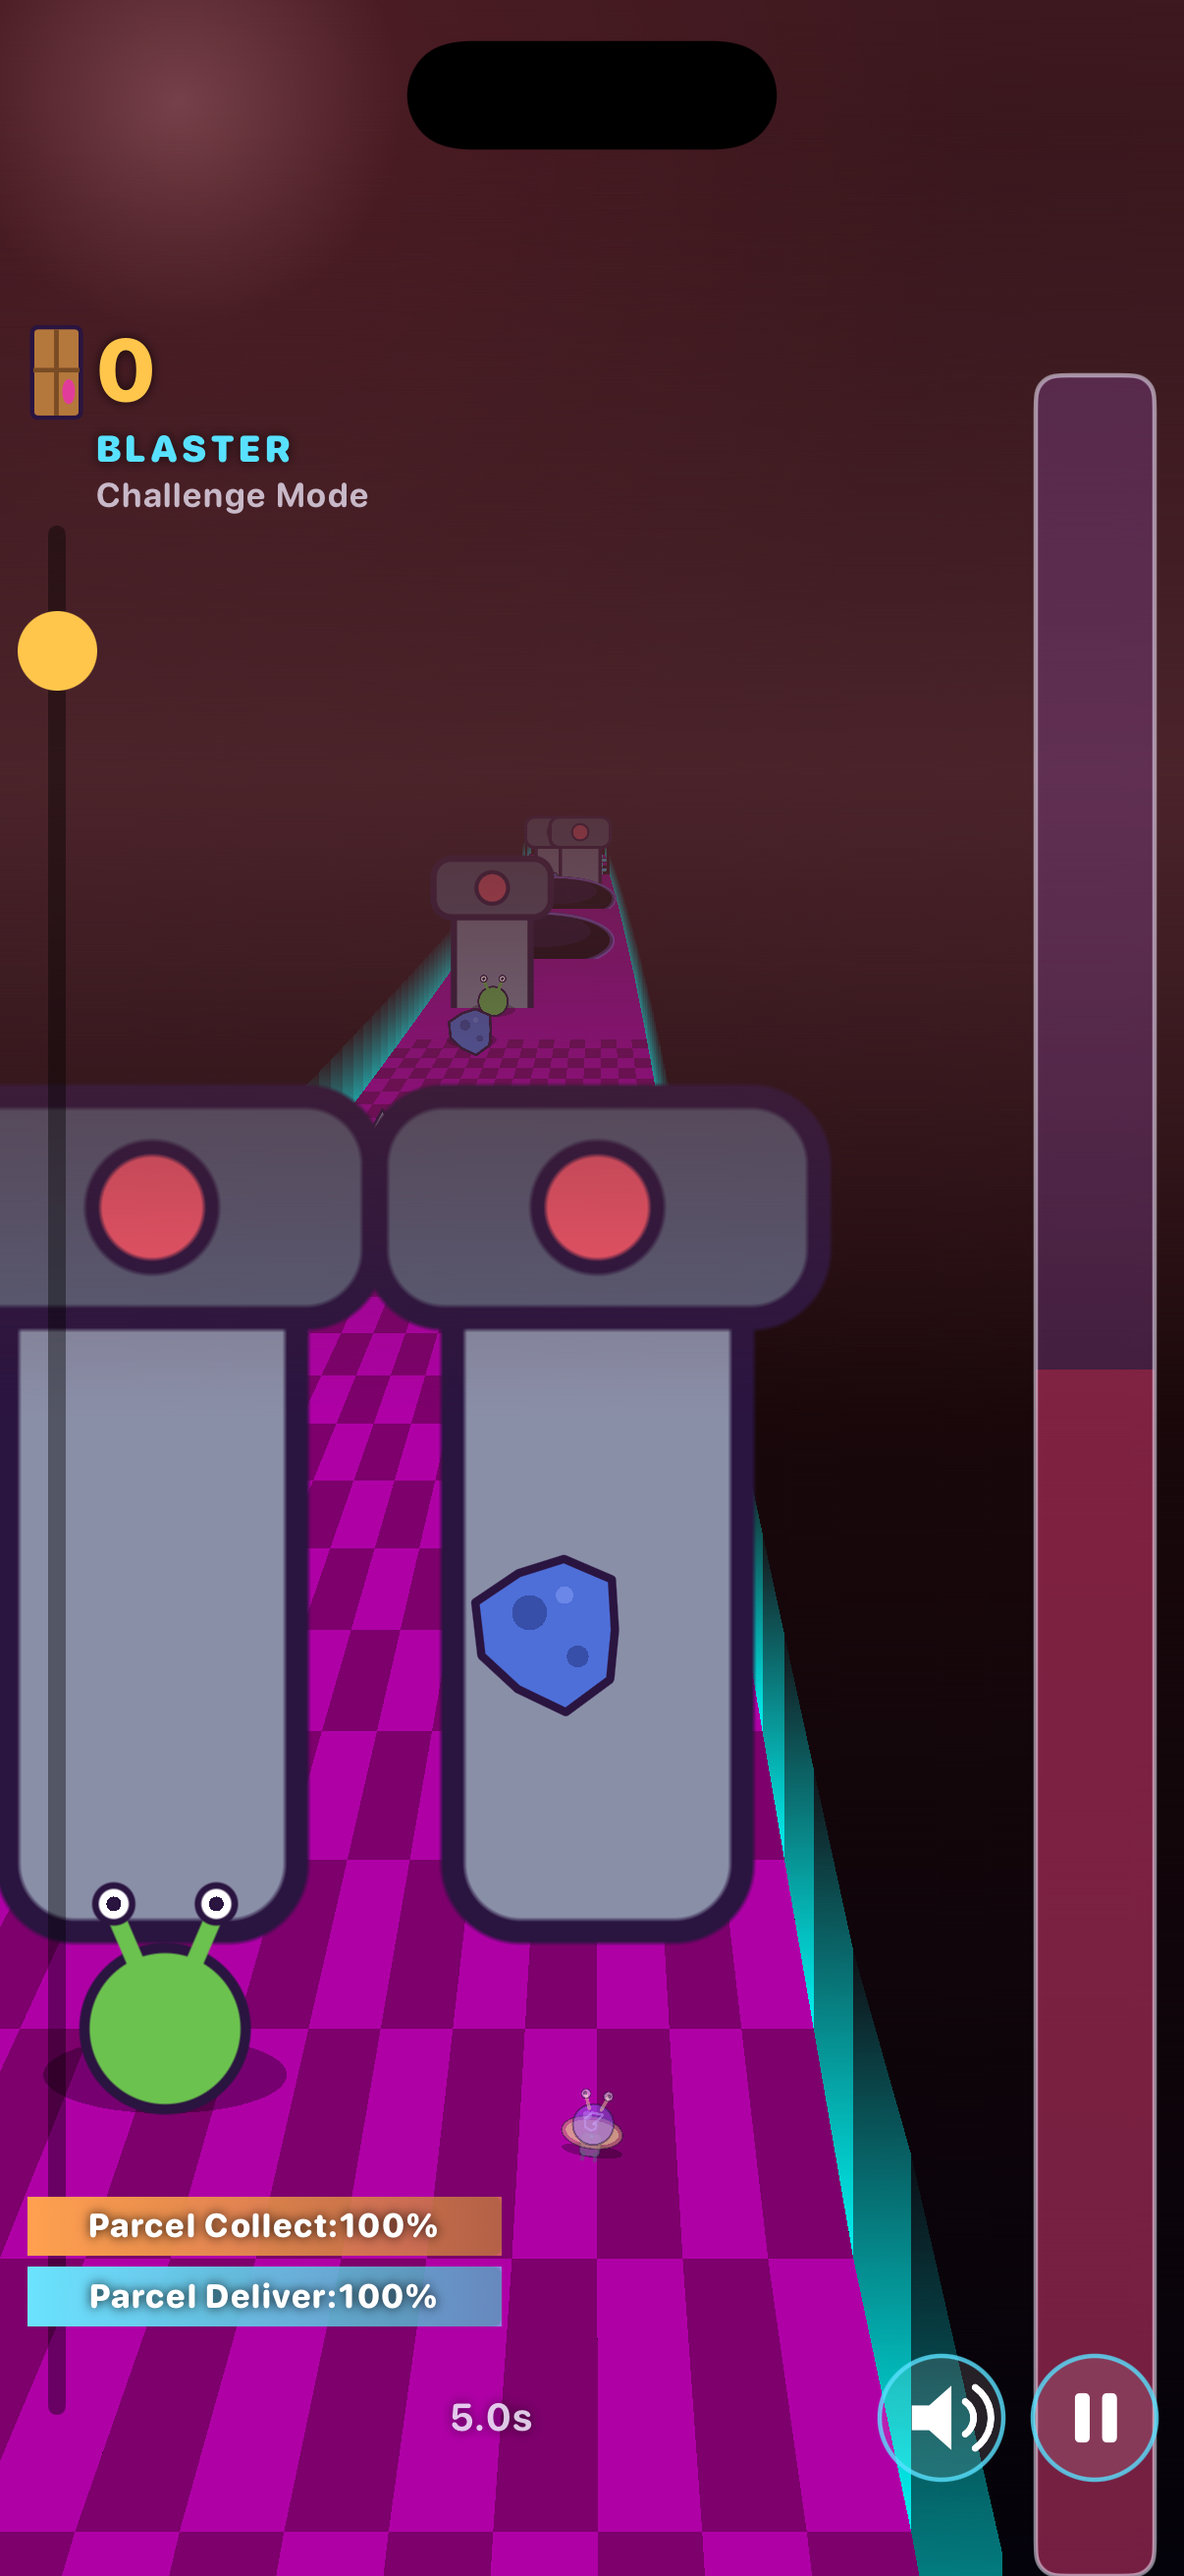
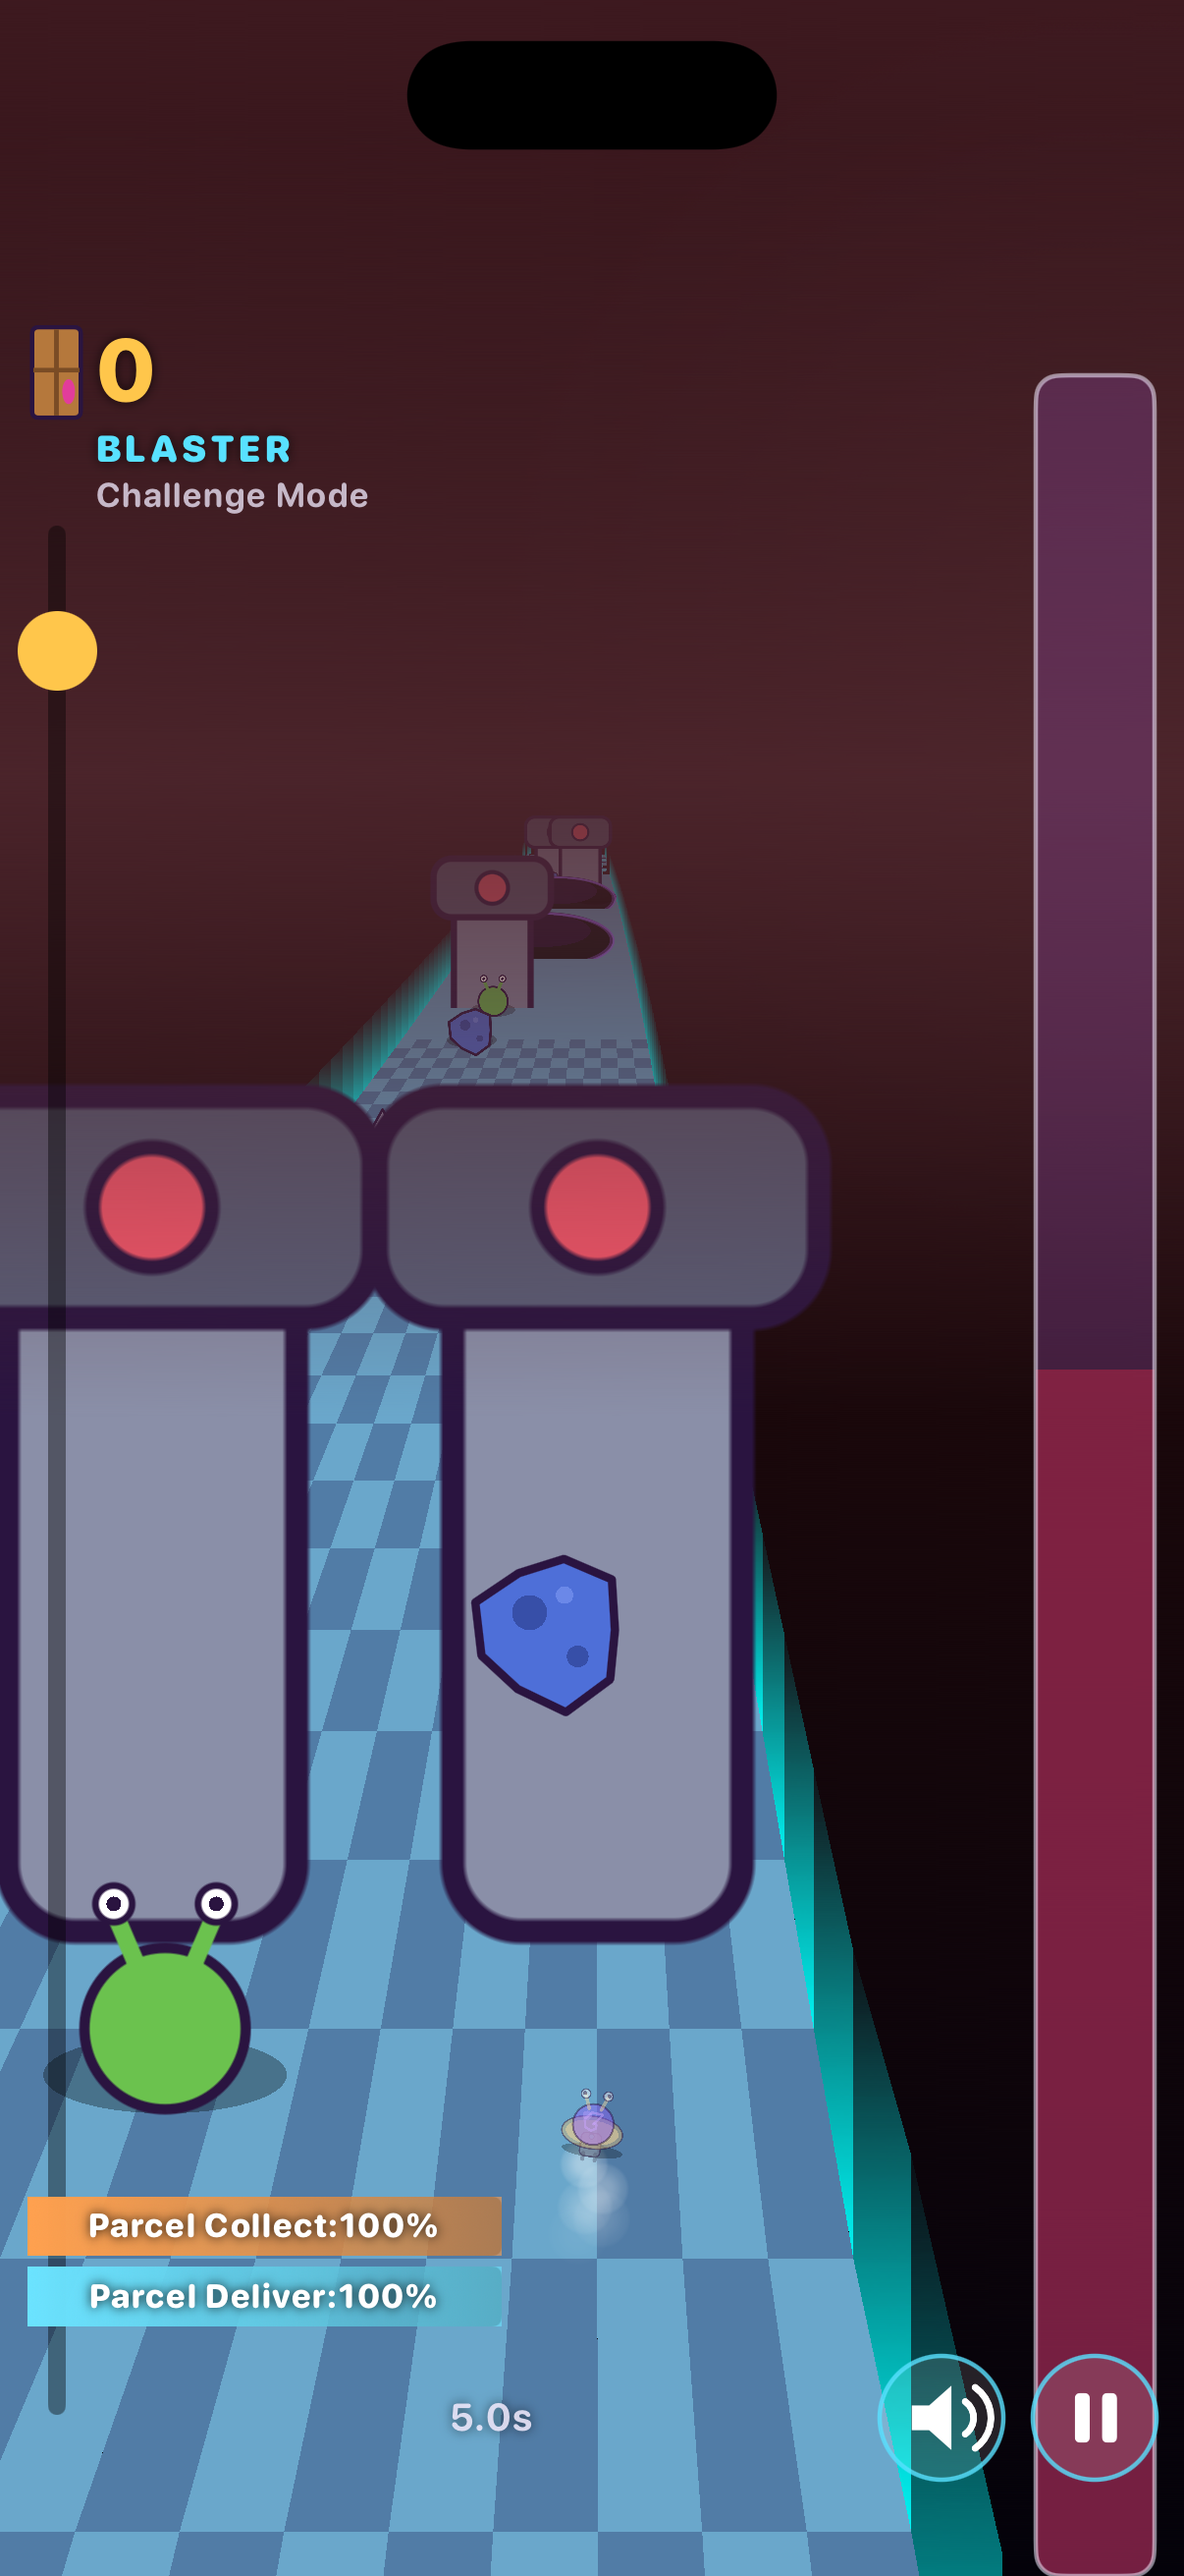
lay the snail's own tail on the road behind him
The 2005 build keeps a pool of thirty-six Startail sprites and re-lays the
oldest at the snail on every frame he spends travelling, so the road behind
him carries a short line of white puffs. Nothing in the rewrite ever spawned
one, so the road behind Turbo was bare.

The tail is now its own particle chain, drawn from the same radius profile as
the build's bitmap, laid under the snail and drifting back toward the camera.
It is off for a slugged or tumbling snail and for a snail barely moving. Its
jitter comes from a private generator rather than the course's stream, so a
frozen -seed capture still lands on the same course as a build without it.

Jet now names the rocket exhaust instead of Smoke, matching the two separate
bitmaps in the build.

The tutorial, speed, challenge and results screenshots are refreshed.

Changed region(s): [[0.0, 0.4943, 0.7977, 1.0], [0.0, 0.0, 0.3068, 0.1236], [0.3068, 0.3398, 0.5522, 0.4325]]

diff --git a/SnailMail/Sources/Game/GameScene.swift b/SnailMail/Sources/Game/GameScene.swift
@@ -123,6 +123,17 @@ final class GameScene: SKScene {
     private var skidUntil: CGFloat = 0
     /// Counts down to the next puff of tyre smoke while a skid is running.
     private var skidClock: CGFloat = 0
+    /// Counts down to the next puff of the white tail the snail lays on the
+    /// road behind him while he is travelling under his own steam.
+    private var trailClock: CGFloat = 0
+    /// The tail's own dice, kept off the course's stream.
+    ///
+    /// The trail lays a puff most frames, so drawing its jitter from
+    /// `sceneRandom` would shift every later draw on that stream — the rocks
+    /// would come up wearing different faces — and a frozen capture of one seed
+    /// would no longer land on the same course as a build without the trail.
+    /// Its own generator keeps the two runs comparable.
+    private var trailRandom = CourseRandom(seed: 0x5A17)
     private var elapsed: CGFloat = 0
     /// This frame's slice of time, handed to Turbo's animation. Zero while the
     /// race is paused so he holds his pose.
@@ -1039,6 +1050,7 @@ final class GameScene: SKScene {
         updateBullets(fdt: fdt)
         updateEnemyFire(fdt: fdt)
         updateSkid(fdt: fdt)
+        updateTrail(fdt: fdt)
         publish()
     }
 
@@ -1229,7 +1241,8 @@ final class GameScene: SKScene {
                bullet.travel.truncatingRemainder(dividingBy: 24) < step {
                 spawnSmoke(at: bullet.node.position,
                            width: 15 * max(0.3, bullet.node.xScale),
-                           drift: CGPoint(x: 0, y: 4), life: 0.35)
+                           drift: CGPoint(x: 0, y: 4), life: 0.35,
+                           name: "jet")
             }
             bullets[i] = bullet
         }
@@ -1691,6 +1704,45 @@ final class GameScene: SKScene {
                    life: 0.4)
     }
 
+    /// The pale puff chain the build lays on the road behind Turbo.
+    ///
+    /// The 2005 build keeps a pool of thirty-six of its `Startail` sprites and
+    /// re-lays the oldest one at the snail on every frame he spends travelling,
+    /// so the road behind him carries a short line of white puffs. Each is laid
+    /// a shade narrower than the snail, and the soft edge of the puff leaves a
+    /// core about a third of his width once they overlap. They drift back
+    /// toward the camera, widening and thinning as they go. Only a snail moving
+    /// under his own steam leaves them — a slugged one is curled in his shell,
+    /// and a tumbling one has already left the road.
+    private func updateTrail(fdt: CGFloat) {
+        guard state.phase == .running, fallTimer < 0, !slugged,
+              currentSpeed > baseTargetSpeed * 0.35 else {
+            trailClock = 0
+            return
+        }
+        trailClock -= fdt
+        guard trailClock <= 0 else { return }
+        // The pool is re-laid once a frame, so a faster snail draws its puffs
+        // closer together than a slow one.
+        trailClock = 0.075
+        let width = Sprites.snailNativeWidth * 0.8 * snailScale
+        guard let puff = Sprites.makeParticle("startail", width: width, alpha: 0.5) else { return }
+        puff.position = CGPoint(x: snail.position.x
+                                    + CGFloat.random(in: -5...5, using: &trailRandom),
+                                y: snail.position.y - 22 * snailScale)
+        // Under the snail and over the highway, so the chain reads as left
+        // behind him rather than pasted on top.
+        puff.zPosition = 8
+        puff.zRotation = CGFloat.random(in: 0...(2 * .pi), using: &trailRandom)
+        fxLayer.addChild(puff)
+        puff.run(.sequence([
+            .group([.moveBy(x: 0, y: -200 * snailScale, duration: 0.45),
+                    .scale(to: 1.35, duration: 0.45),
+                    .fadeOut(withDuration: 0.45)]),
+            .removeFromParent(),
+        ]))
+    }
+
     // MARK: - Bullets
 
     private func obtainBullet() -> SKNode {
@@ -1876,9 +1928,15 @@ final class GameScene: SKScene {
 
     /// A puff of the build's smoke, for tyres scrubbing the road and for the
     /// exhaust trailing a shot.
+    ///
+    /// The two are separate bitmaps in the build — `Smoke` under the tyres and
+    /// `Jet` behind a rocket — so the caller names which it wants. The remake
+    /// draws both as the same soft puff, but a retail-art run then shows the
+    /// right picture in each place.
     private func spawnSmoke(at point: CGPoint, width: CGFloat,
-                            drift: CGPoint = .zero, life: TimeInterval = 0.45) {
-        guard let puff = Sprites.makeParticle("smoke", width: width, alpha: 0.8) else { return }
+                            drift: CGPoint = .zero, life: TimeInterval = 0.45,
+                            name: String = "smoke") {
+        guard let puff = Sprites.makeParticle(name, width: width, alpha: 0.8) else { return }
         puff.position = point
         puff.zPosition = 24
         puff.zRotation = CGFloat.random(in: 0...(2 * .pi), using: &sceneRandom)
